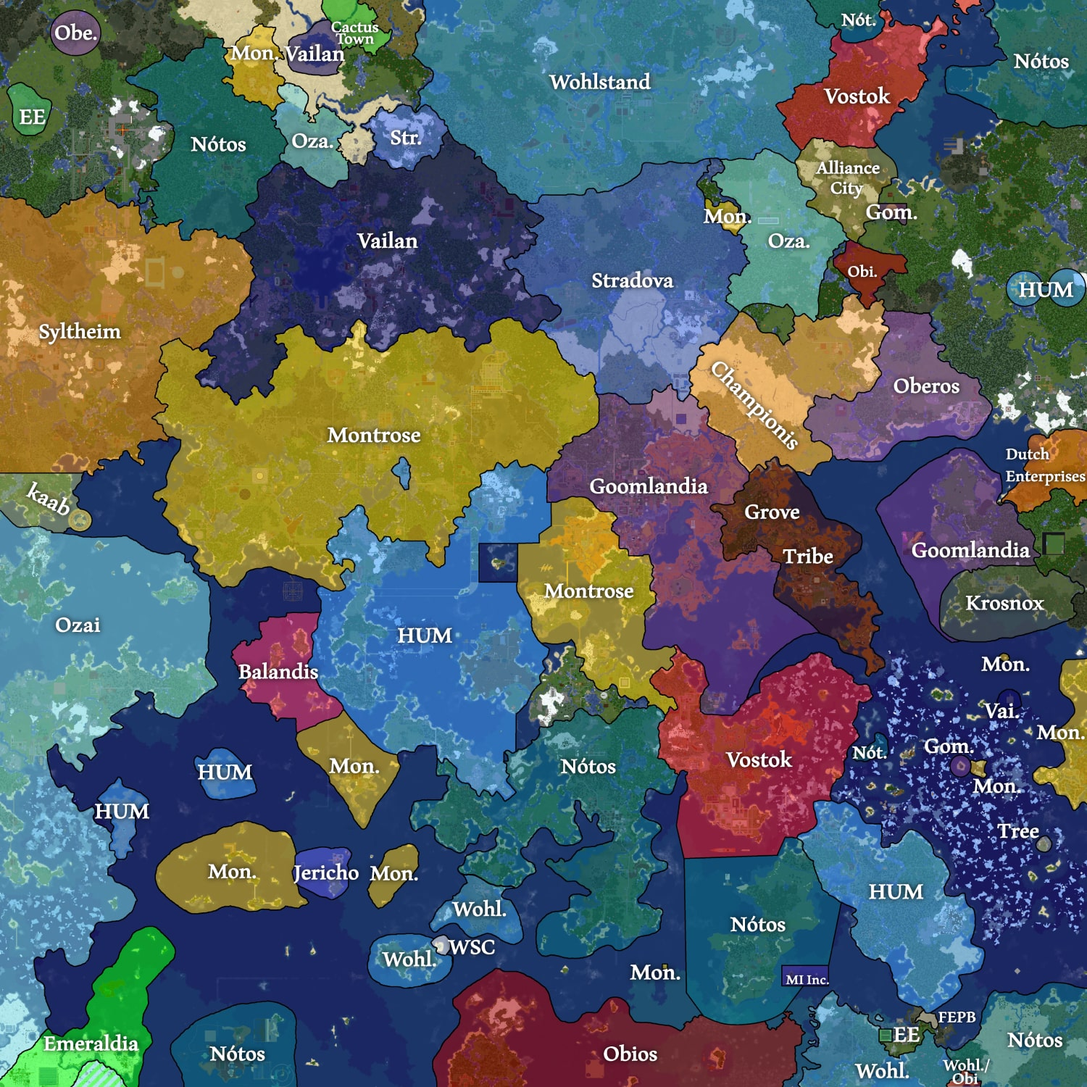
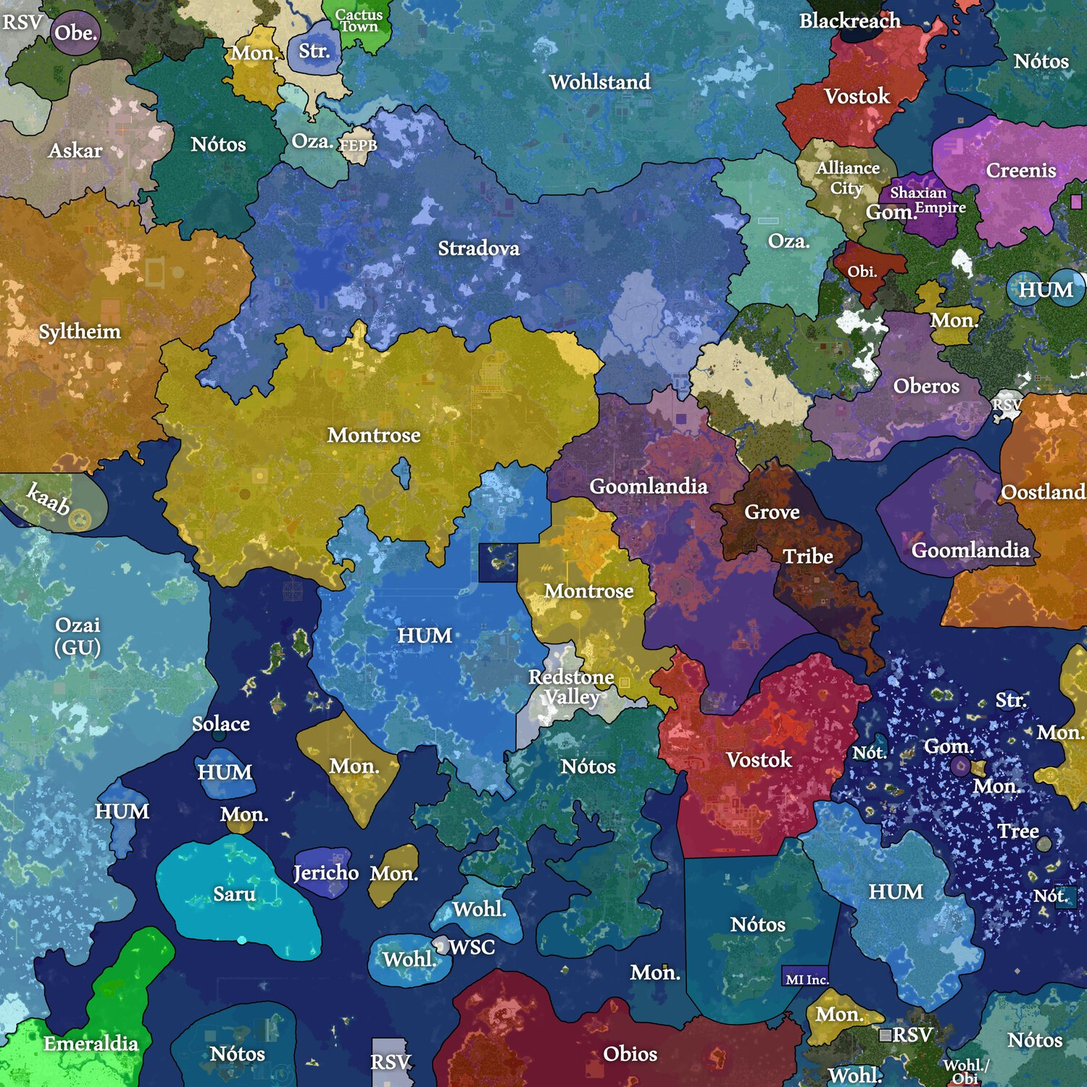
Nelt map v4.4
- Script on my computer to process political maps
- New nation colors

diff --git a/index.html b/index.html
@@ -88,29 +88,35 @@
 
         var exits = {}, content = '', directory = '';
         var colors = {
-          "Montrose": "f1c40f",
-          "Nótos": "086F85",
-          "Ozai": "7CDCE7",
-          "Wohlstand": "3498DB",
-          "Episkopija":"E9D4FF",
-          "Syltheim":"ED8D18",
-          "Goomlandia":"71368A",
-          "Championis":"FFA846",
-          "Fianna":"2C7D47",
-          "HUM":"40A3FC",
-          "Emerald Enclave":"50C878",
-          "Emeraldia":"00ff00",
-          "Fauxford":"030101",
-          "Vailan":"100966",
-          "Stradova":"4169e1",
-          "Jericho":"5E60E6",
-          "Kaab":"EBD785",
-          "Krosnox":"555C45",
-          "Vostok":"EB1C24",
-          "Oberos":"9B59B6",
-          "Obios":"B34343",
-          "IBWH":"FFFFFF",
-          "UAC":"A18B2B"
+          "Askar": "#e6b8af",
+          "Solace": "#004d4d",
+          "Cactus Town": "#0a0",
+          "Grove Tribe": "#411010",
+          "Oberos": "#9b59b6",
+          "Championis": "#ffa846",
+          "Ozai": "#7cdce7",
+          "Kaab": "#ebd785",
+          "Wohlstand": "#3498db",
+          "Syltheim": "#ed8d18",
+          "Tree": "#989898",
+          "Obios": "#b34343",
+          "Stradova": "#4169e1",
+          "Montrose": "#f1c40f",
+          "Jericho": "#5e60e6",
+          "Shaxian Empire": "#8c00b7",
+          "Notos": "#086f85",
+          "Creenis": "#ff64ff",
+          "HUM": "#40a3fc",
+          "Blackreach": "#030303",
+          "Oostland": "#ff7100",
+          "Alliance City": "#a18b2b",
+          "Vostok": "#eb1c24",
+          "Emeraldia": "#0f0",
+          "Saru": "#0f0",
+          "Goomlandia": "#71368a",
+          "Redstone Valley": "#7f7f7f",
+          "Rakdos": "#dc143c",
+          "IBWH": "#fff"
         };
 
         $('.itemcontent i').tooltip();
@@ -174,7 +180,7 @@
             content += `<circle class="circle" data-name="${name}" r="4" cx="${375 + x}" cy="${375 + z}" title/>`;
 
             if(colors[info['Political Entity']]) { // Set up itemright square color
-              tempColor = '#' + colors[info['Political Entity']];
+              tempColor = colors[info['Political Entity']];
             } else tempColor = '';
 
             if(info['Wiki URL']) {
